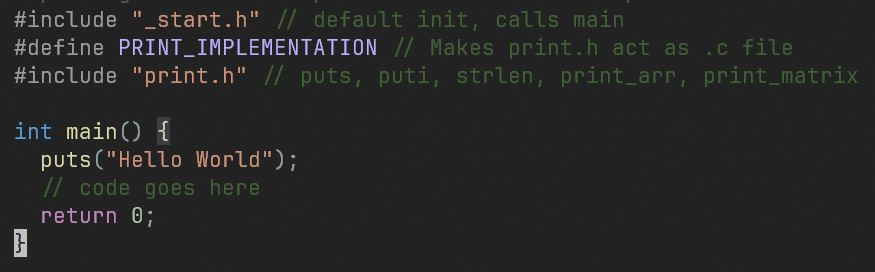
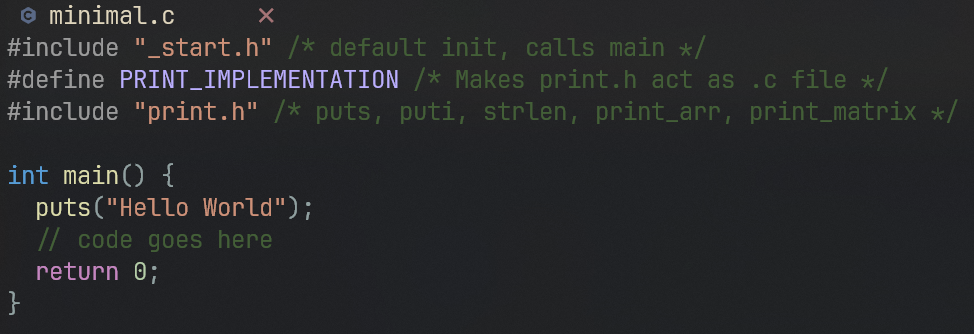
better docs

Changed region(s): [[0.0, 0.0, 0.9874, 0.3824], [0.0, 0.4118, 0.3394, 0.9412]]

diff --git a/examples/minimal.c b/examples/minimal.c
@@ -1,9 +1,11 @@
-#include "_start.h" // default init, calls main 
-#define PRINT_IMPLEMENTATION // Makes print.h act as .c file
-#include "print.h" // puts, puti, strlen, print_arr, print_matrix
+#include "_start.h" /* default init, calls main */
+#define PRINT_IMPLEMENTATION /* Makes print.h act as .c file */
+#include "print.h" /* puts, puti, strlen, print_arr, print_matrix */
 
 int main() {
   puts("Hello World");
   // code goes here
   return 0;
 }
+
+

diff --git a/README.md b/README.md
@@ -25,6 +25,7 @@ Now inspect ``examples/out/`` folder. You'll see both `interp` and `dump` folder
 
 If you just want to compile the tcc-poxim you can run $ `make all` instead.
 
+
 ## Running Minimal Example
 
 You can edit the file ``examples/minimal.c`` that already includes the minimal setup
@@ -34,7 +35,6 @@ You can edit the file ``examples/minimal.c`` that already includes the minimal s
 run $ ``make examples`` to compile and interpret the same way as the other examples
 
 ![minimal_output](img/minimal.interp.png)
-
 
 
 
@@ -65,7 +65,7 @@ This is done because it might be slow to open **output.interp**.
 
 Open Replit link below and press the ``Run`` button to compile the C compiler **tcc-poxim** (executable is named only ``tcc``), compile all `.c` files in the `examples` folder using **tcc-poxim**,  **dump** and **interpret** these files in the  ``examples/out/dump/`` and ``examples/out/interp/`` respectively.
 
-- https://replit.com/@ExCyberse/tinycc-poxim
+- https://replit.com/@ExCyberse/tinycc-poxim#examples/main.c
 
 ![replit_run](img/replit_run.png)
 
@@ -76,7 +76,11 @@ This will load the Enviroment, run and show the output on a console right in the
 
 To edit the files you can fork it such as this (has to be logged on replit):
 
-For a demonstration of how it's supposed to work, see this video {{youtube video of me compiling and running tcc-poxim on Replit here}}
+![fork](img/fork.png)
+
+Then you'll have access to any thing you wanna change, just edit any file **.c** under **examples** folder and it will be compiled and interpret when you press the **Run** button on Replit
+
+![access](img/access.png)
 
 ## Doc
 
